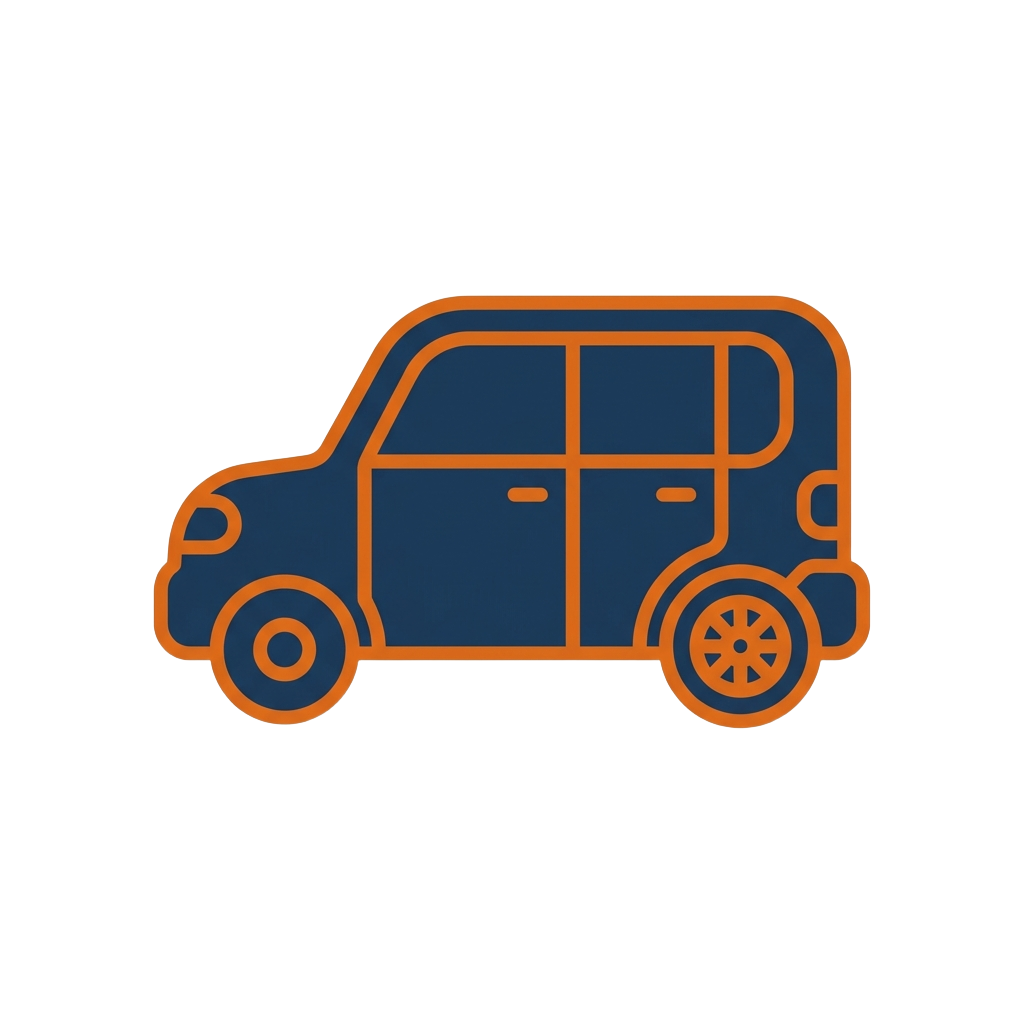
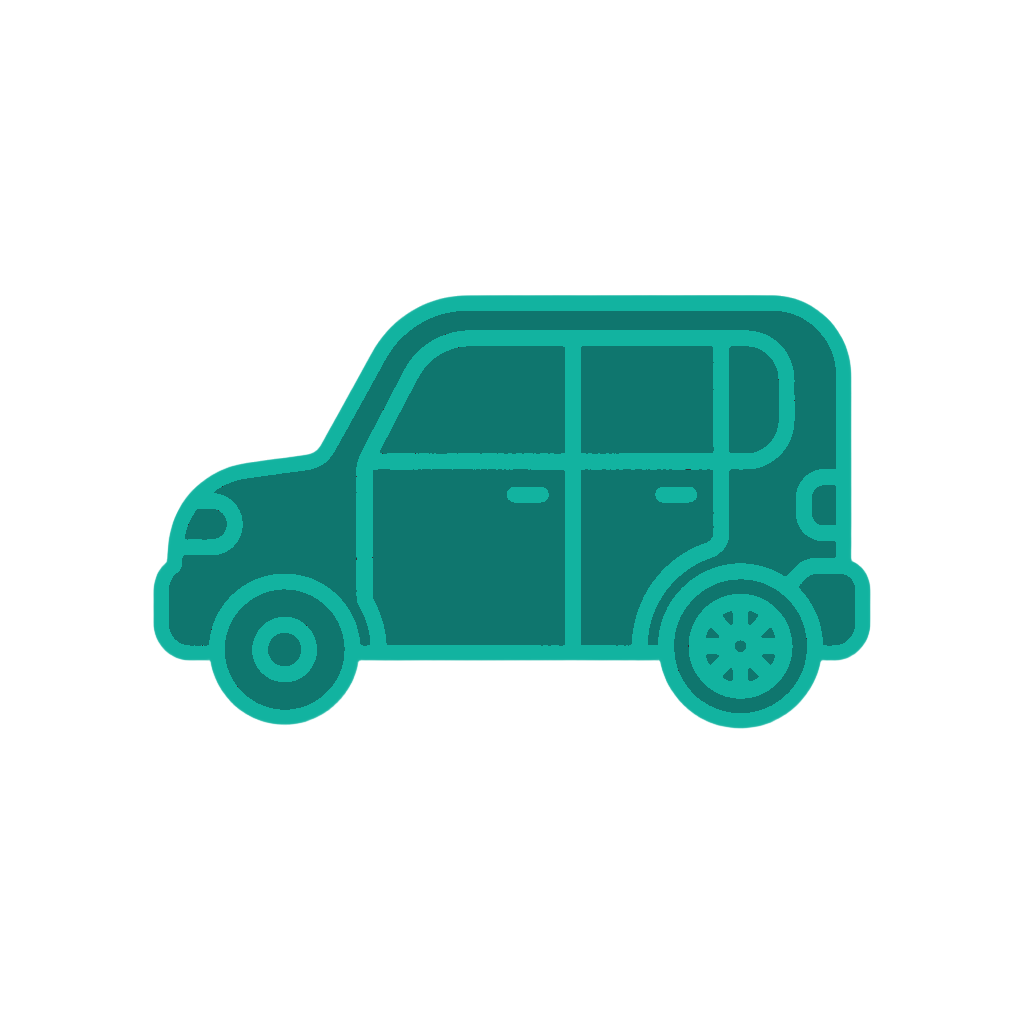
homepage: 車種アイコンをティール配色に統一
車種（ボディタイプ）タイルのアイコンをネイビー＋オレンジからティール系
(#0F766E / #12B3A0) にrecolorし、タイル背景をジャンルSVGと同じミント
(#EBFAF6) に統一。車種行とジャンル行が1つのアイコンシステムとして揃う。

Claude-Session: https://claude.ai/code/session_01HRUW3KN2Qyk7Mk95v6wsgw

Changed region(s): [[0.125, 0.2812, 0.875, 0.7188]]

diff --git a/app/page.tsx b/app/page.tsx
@@ -459,14 +459,14 @@ export default async function HomePage() {
                   href={`/listings?body=${encodeURIComponent(body)}`}
                   className="group overflow-hidden rounded-2xl border border-slate-200 bg-white shadow-sm transition hover:-translate-y-0.5 hover:border-accent-400 hover:shadow-md"
                 >
-                  <div className="relative aspect-[4/3] overflow-hidden bg-gradient-to-br from-accent-50 to-[#F5F9F8]">
+                  <div className="relative aspect-[4/3] overflow-hidden bg-[#EBFAF6]">
                     {BODY_ICON[body] ? (
                       <Image
                         src={BODY_ICON[body]}
                         alt={body}
                         fill
                         sizes="(max-width:640px) 50vw, 16vw"
-                        className="object-contain p-3 transition duration-300 group-hover:scale-105"
+                        className="object-contain p-4 transition duration-300 group-hover:scale-105"
                       />
                     ) : (
                       <Image
